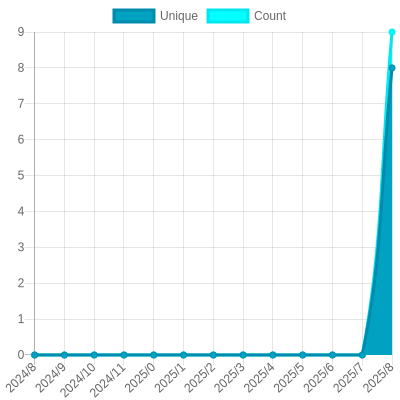
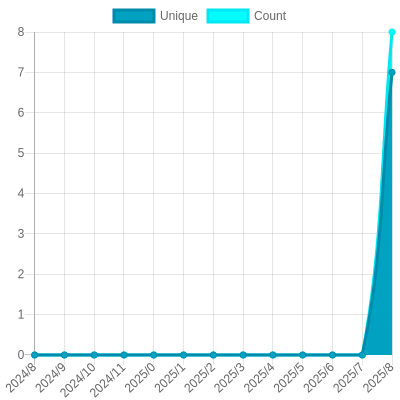
Update views

diff --git a/readme/853092385/year.md b/readme/853092385/year.md
@@ -23,10 +23,10 @@
 			<code>2024/9/1</code>
 		</td>
 		<td>
-			<code>8</code>
+			<code>7</code>
 		</td>
 		<td>
-			<code>9</code>
+			<code>8</code>
 		</td>
 	</tr>
 	<tr>
@@ -164,7 +164,7 @@
 </table>
 
 </details>
-<small><i>Last updated on 2024/9/20 1:03 AM UTC</i></small>
+<small><i>Last updated on 2024/9/20 6:19 AM UTC</i></small>
 
 ## ✂Copy and 📋 Paste
 ### SVG Badge

diff --git a/README.md b/README.md
@@ -37,7 +37,7 @@ The project created and maintained by [gayanvoice](https://github.com/gayanvoice
 	</tr>
 </table>
 
-<small><i>Last updated on 2024/9/20 1:03 AM UTC</i></small>
+<small><i>Last updated on 2024/9/20 6:19 AM UTC</i></small>
 
 ## ✂Copy and 📋 Paste
 ### Total Views Badge
